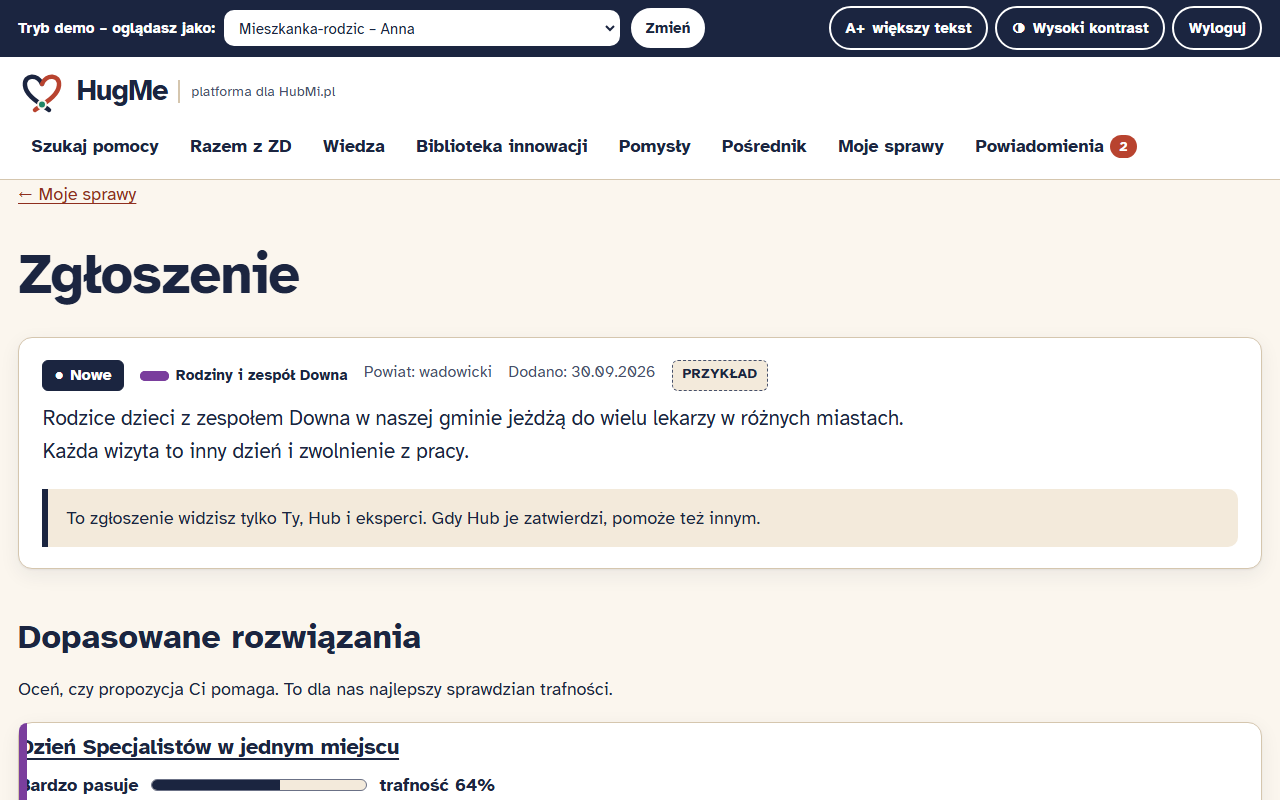
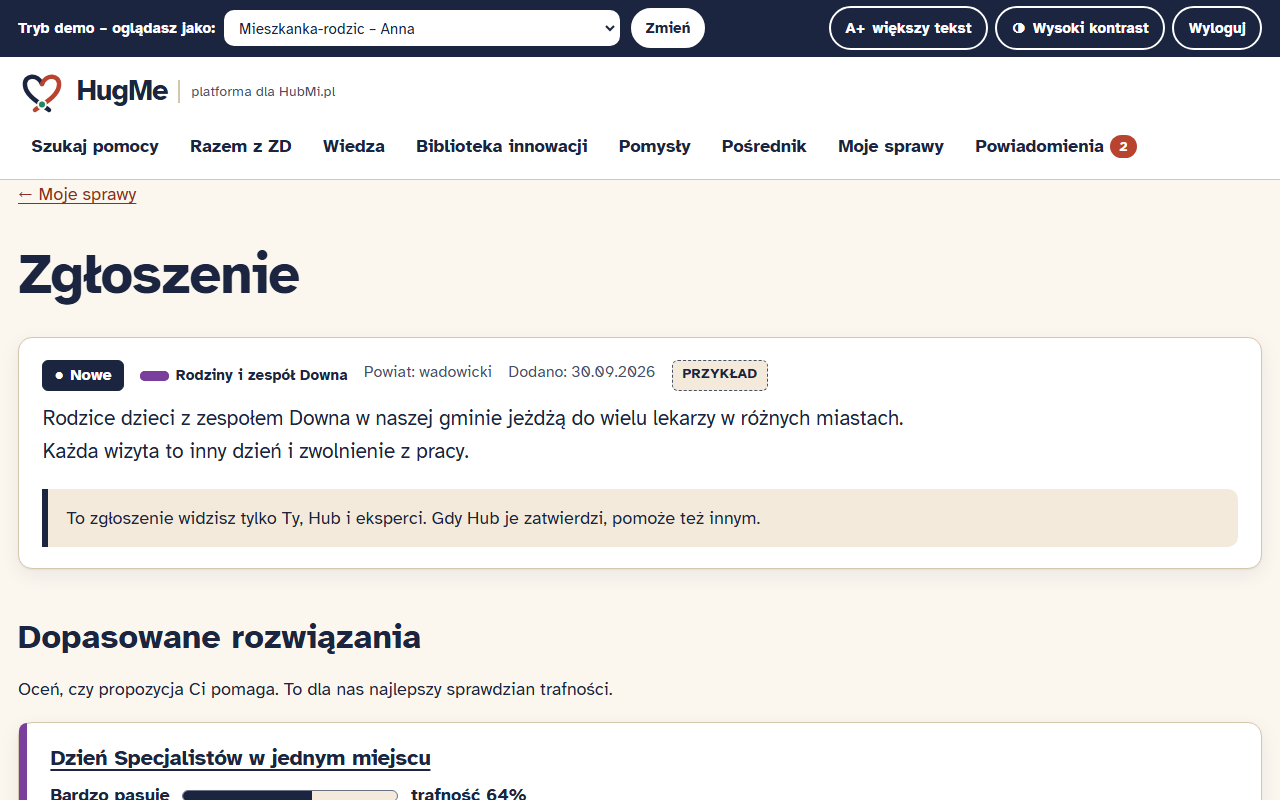
Poprawki układu: karty dopasowań, wąski ekran z A+ i powiększeniem
Claude-Session: https://claude.ai/code/session_01R7PMaVFHim9HdCP1A5anex

Changed region(s): [[0.0, 0.9062, 0.4062, 1.0]]

diff --git a/app/static/css/hugme.css b/app/static/css/hugme.css
@@ -137,7 +137,7 @@ main { padding-top: 1rem; padding-bottom: 3rem; min-height: 60vh; }
 /* Formularze */
 .field { margin: 0 0 1.2rem; }
 label, legend { display: block; font-weight: 700; margin-bottom: .2rem; }
-legend { font-size: 1.1rem; padding: 0 .3rem; }
+legend { font-size: 1.1rem; padding: 0 .3rem; max-width: 100%; overflow-wrap: anywhere; }
 fieldset { border: 1px solid var(--line); border-radius: var(--radius); padding: 1rem 1.2rem; margin: 0 0 1.4rem; background: var(--paper); min-width: 0; }
 .optional { font-weight: 400; color: var(--ink-soft); font-size: .9em; }
 .hint { color: var(--ink-soft); font-size: .92rem; margin: 0 0 .35rem; }
@@ -150,7 +150,8 @@ textarea { resize: vertical; line-height: 1.5; }
 .demo-bar select { width: auto; min-height: 36px; padding: .2rem .5rem; font-size: .85rem; border-color: #fff; }
 .field--error input, .field--error textarea, .field--error select { border-color: var(--danger); border-width: 3px; }
 .error-msg { color: var(--danger); font-weight: 700; margin: 0 0 .35rem; }
-.choice { display: flex; align-items: center; gap: .6rem; min-height: 44px; font-weight: 400; }
+.choice { display: flex; align-items: center; gap: .6rem; min-height: 44px; font-weight: 400; overflow-wrap: anywhere; }
+input[type=file] { max-width: 100%; }
 .choice input { width: 1.4rem; height: 1.4rem; accent-color: var(--coral); }
 .error-summary { border: 3px solid var(--danger); background: var(--coral-soft); padding: 1rem 1.2rem; border-radius: var(--radius); margin-bottom: 1.5rem; }
 .error-summary h2 { margin-top: 0; font-size: 1.2rem; }
@@ -258,12 +259,12 @@ caption { text-align: left; font-weight: 700; padding: .7rem; }
 .heat-0 { background: var(--paper); color: var(--ink-soft); } .heat-1 { background: #E3E8F2; } .heat-2 { background: #B9C4DB; }
 .heat-3 { background: #4A5F8C; color: #fff; } .heat-4 { background: #1B2540; color: #fff; }
 .legend { display: flex; flex-wrap: wrap; gap: .4rem 1rem; align-items: center; list-style: none; padding: 0; margin: -.8rem 0 1.5rem; font-size: .9rem; }
-.legend li { display: inline-flex; align-items: center; gap: .4rem; }
+.legend li { display: inline-flex; flex-wrap: wrap; align-items: center; gap: .4rem; min-width: 0; }
 .legend__sw { width: 1.6rem; height: 1.1rem; border: 1px solid var(--border-input); border-radius: 4px; }
 /* Trend to informacja, nie błąd – neutralny granat, kierunek niosą ▲/▼ i słowa */
 .trend-up, .trend-down { color: var(--ink); font-weight: 700; }
 .stat-row { display: grid; gap: 1rem; grid-template-columns: repeat(auto-fit, minmax(min(100%, 11rem), 1fr)); list-style: none; padding: 0; margin: 0 0 1.5rem; }
-.stat { background: var(--paper); border: 1px solid var(--line); border-radius: var(--radius); padding: 1rem; }
+.stat { background: var(--paper); border: 1px solid var(--line); border-radius: var(--radius); padding: 1rem; min-width: 0; overflow-wrap: anywhere; }
 .stat__num { display: block; font-size: 2rem; font-weight: 700; line-height: 1.1; }
 .stat--alert { border-color: var(--coral); border-width: 2px; }
 .stat--alert .stat__num { color: var(--coral-dark); }
@@ -277,7 +278,7 @@ caption { text-align: left; font-weight: 700; padding: .7rem; }
 .list-plain--cards > li .actions { margin: .5rem 0 0; }
 .list-plain--cards .meta { display: inline; margin: 0; }
 @media (max-width: 40em) {
-  .stat-row { grid-template-columns: 1fr 1fr; gap: .6rem; }
+  .stat-row { grid-template-columns: repeat(auto-fit, minmax(min(100%, 7rem), 1fr)); gap: .6rem; }
   .stat { padding: .7rem .8rem; }
   .stat__num { font-size: 1.6rem; }
   .table--stack thead { position: absolute; width: 1px; height: 1px; overflow: hidden; clip: rect(0,0,0,0); }
@@ -304,7 +305,7 @@ caption { text-align: left; font-weight: 700; padding: .7rem; }
 .video { position: relative; aspect-ratio: 16 / 9; width: 100%; max-width: 40rem; border-radius: var(--radius); overflow: hidden; background: var(--ink); }
 .video iframe { position: absolute; inset: 0; width: 100%; height: 100%; border: 0; }
 .list-plain { list-style: none; padding: 0; }
-.list-plain > li { padding: .6rem 0; border-bottom: 1px solid var(--line); }
+.list-plain > li:not(.card) { padding: .6rem 0; border-bottom: 1px solid var(--line); }
 .notice { background: var(--sand); border-left: 6px solid var(--ink); padding: .8rem 1rem; border-radius: 0 10px 10px 0; }
 .masked { background: var(--sand); border: 1px dashed var(--ink-soft); border-radius: 10px; padding: .7rem 1rem; white-space: pre-wrap; }
 details > summary { cursor: pointer; font-weight: 700; min-height: 44px; display: flex; align-items: center; }
@@ -341,7 +342,7 @@ code { background: var(--sand); padding: 0 .25rem; border-radius: 4px; }
 .razem-hero h1 { margin-top: .2rem; }
 .grid--two { grid-template-columns: repeat(auto-fit, minmax(min(100%, 22rem), 1fr)); }
 .stage-grid { grid-template-columns: repeat(auto-fit, minmax(min(100%, 9.5rem), 1fr)); gap: .8rem; }
-@media (max-width: 40em) { .stage-grid { grid-template-columns: 1fr 1fr; gap: .6rem; } .stage-btn { min-height: 6.5rem; padding: .7rem .4rem; } .stage-btn .ico { width: 2rem; height: 2rem; } }
+@media (max-width: 40em) { .stage-grid { grid-template-columns: repeat(auto-fit, minmax(min(100%, 7rem), 1fr)); gap: .6rem; } .stage-btn { min-height: 6.5rem; padding: .7rem .4rem; } .stage-btn .ico { width: 2rem; height: 2rem; } }
 .stage-tabs { display: flex; flex-wrap: wrap; align-items: center; gap: .4rem .6rem; margin: 0 0 1rem; }
 .stage-tabs__label { margin: 0; font-weight: 700; }
 .stage-tabs .nav { margin: 0; }
@@ -353,7 +354,7 @@ code { background: var(--sand); padding: 0 .25rem; border-radius: 4px; }
 .razem-nav .razem-nav__brand { display: flex; flex-wrap: wrap; align-items: baseline; gap: .2rem .5rem; }
 .razem-nav .nav-m > summary { min-height: 40px; }
 @media (max-width: 30em) { .razem-nav__brand .meta { display: none; } }
-.stage-btn { display: flex; flex-direction: column; align-items: center; gap: .3rem; width: 100%; min-height: 8rem; padding: 1rem .6rem;
+.stage-btn { display: flex; flex-direction: column; align-items: center; gap: .3rem; width: 100%; min-width: 0; overflow-wrap: anywhere; min-height: 8rem; padding: 1rem .6rem;
   background: var(--paper); border: 2px solid var(--line); border-radius: var(--radius); font: inherit; color: var(--ink); cursor: pointer; text-align: center; }
 .stage-btn .ico { width: 2.4rem; height: 2.4rem; color: var(--thread, var(--coral)); }
 .stage-btn:hover { border-color: var(--ink); }

diff --git a/scripts/axe_audit.py b/scripts/axe_audit.py
@@ -102,7 +102,14 @@ CHECKS_JS = """() => {
     .filter(el => el.offsetParent !== null)
     .filter(el => { const r = el.getBoundingClientRect(); return r.height < 24 || (el.matches('.btn, button, .nav a') && r.height < 44); })
     .map(el => (el.textContent || el.name || el.tagName).trim().slice(0, 40));
-  return {hscroll: doc.scrollWidth > doc.clientWidth + 1, small};
+  // tekst karty z paskiem obszaru nie może wchodzić pod pasek ani wychodzić poza kartę
+  const clipped = [...document.querySelectorAll('.card--thread')].filter(c => c.offsetParent).flatMap(c => {
+    const r = c.getBoundingClientRect(), left = r.left + 8;
+    return [...c.querySelectorAll('h2, h3, p')].filter(e => e.offsetParent && e.textContent.trim())
+      .filter(e => { const q = e.getBoundingClientRect(); return q.left < left || q.right > r.right + 1; })
+      .slice(0, 1).map(e => e.textContent.trim().slice(0, 40));
+  });
+  return {hscroll: doc.scrollWidth > doc.clientWidth + 1, small, clipped};
 }"""
 
 
@@ -156,10 +163,10 @@ def main(screens=False):
         browser.close()
     server.shutdown()
     write_report(results)
-    bad = [r for r in results if r["violations"] or r["hscroll"]]
+    bad = [r for r in results if r["violations"] or r["hscroll"] or r["clipped"]]
     print(f"Widoków sprawdzonych: {len(results)}; z problemami: {len(bad)}")
     for r in bad:
-        print(f"  [{r['vp']}] {r['role']} {r['url']}: {r['violations']} hscroll={r['hscroll']}")
+        print(f"  [{r['vp']}] {r['role']} {r['url']}: {r['violations']} hscroll={r['hscroll']} clipped={r['clipped']}")
     return 1 if bad else 0
 
 
